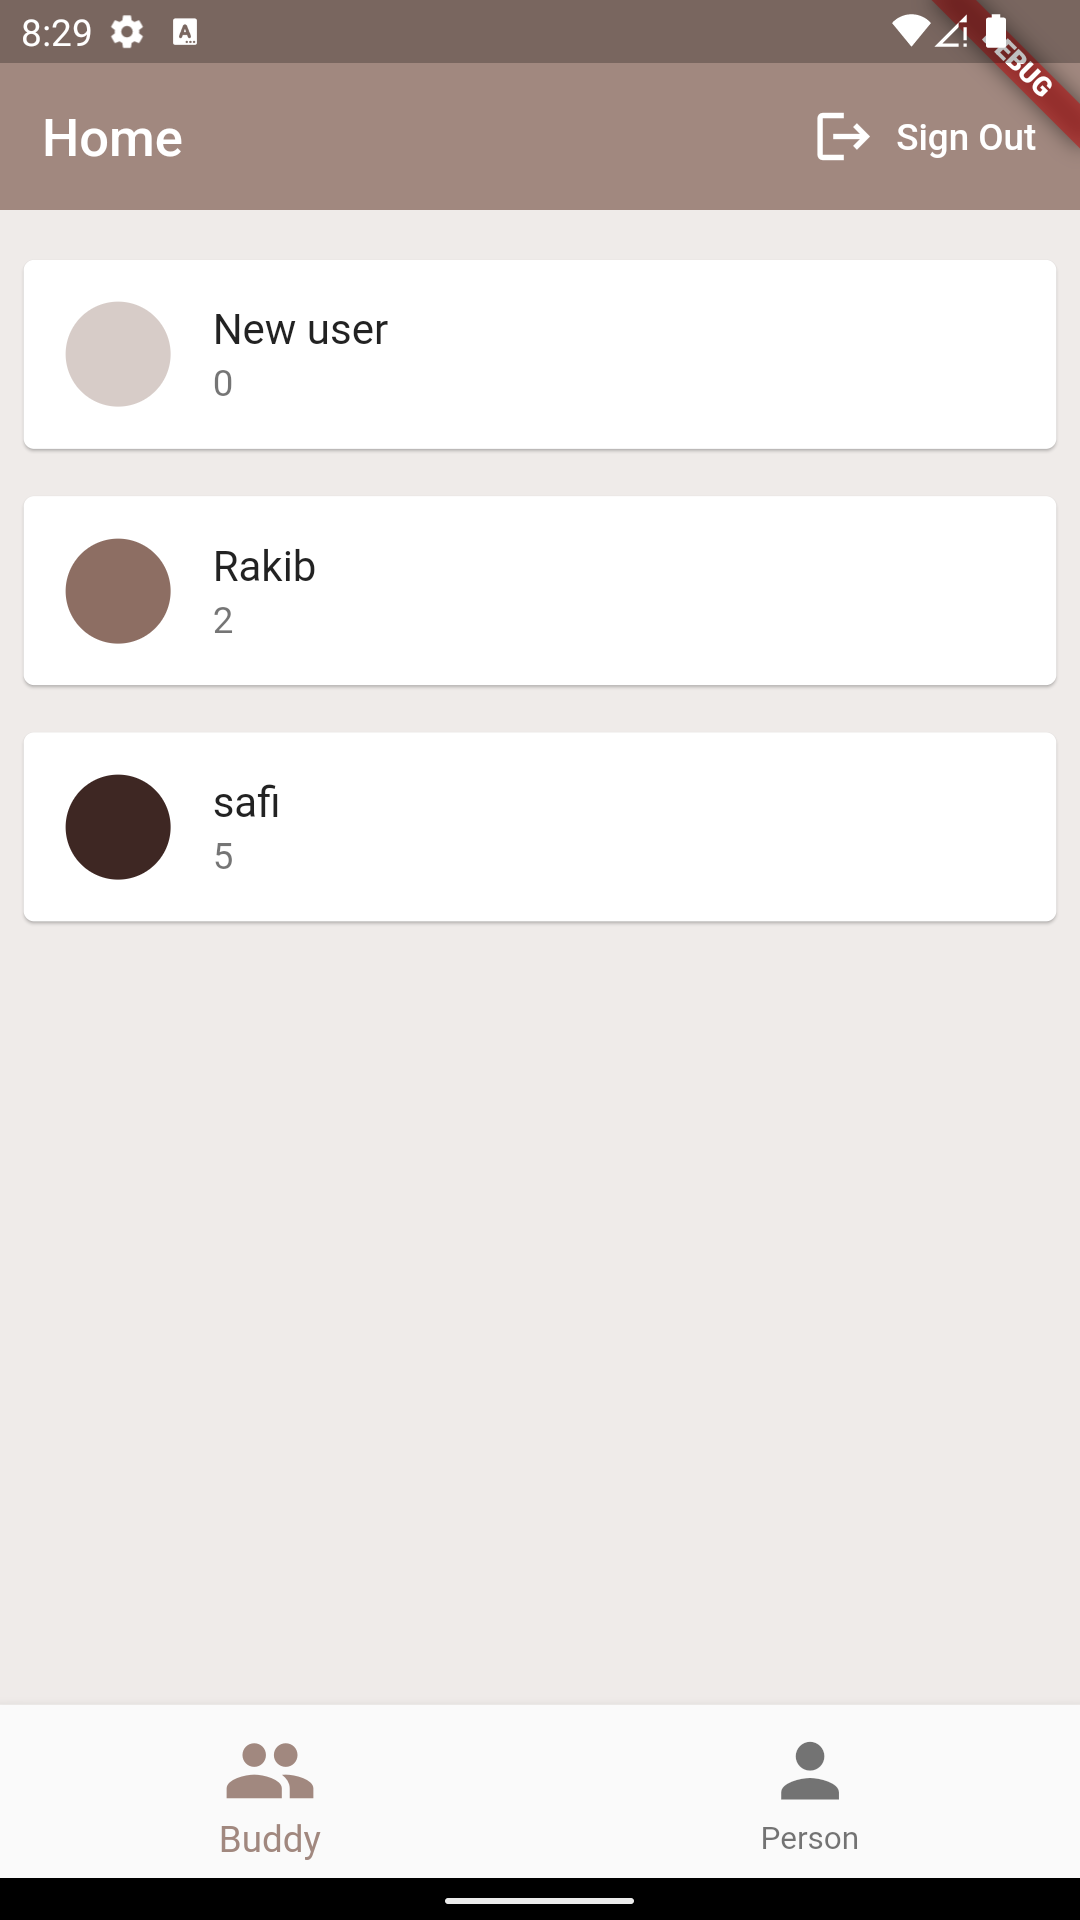
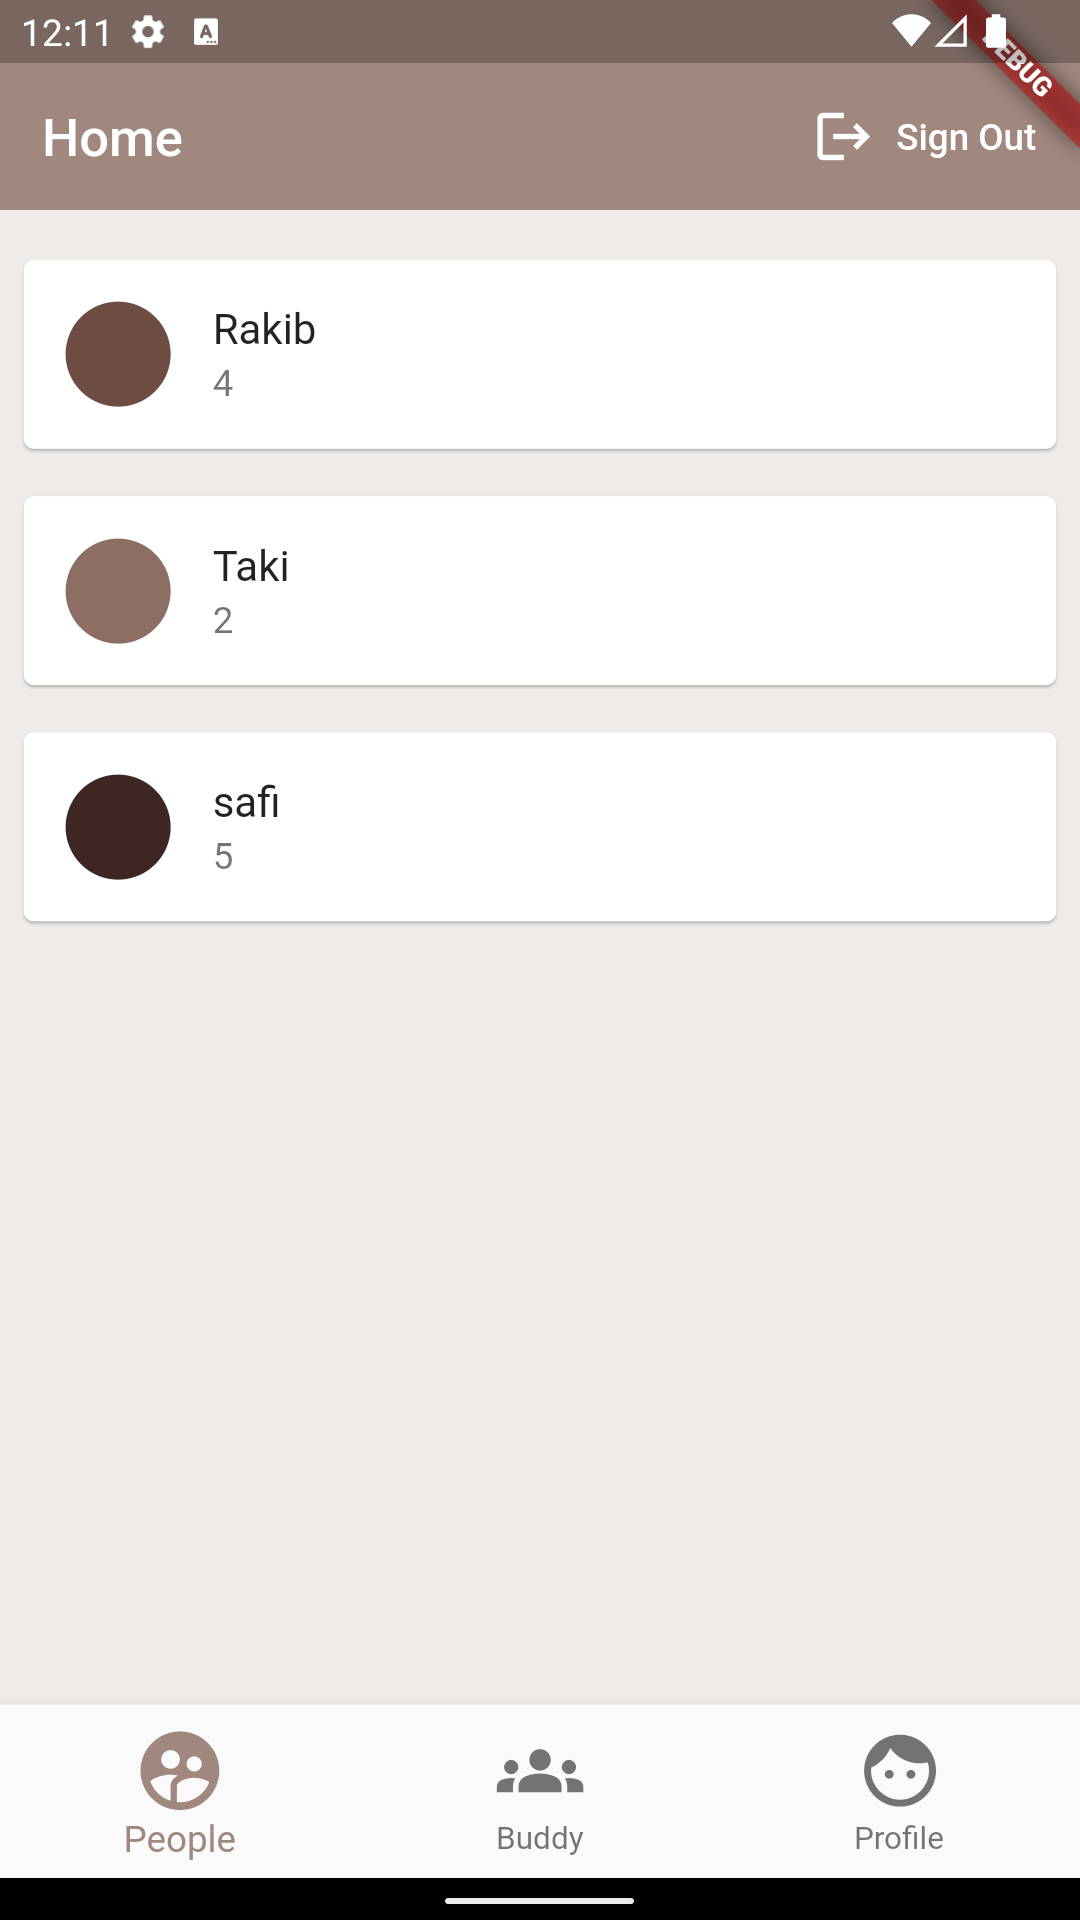
Buddy feature add 1

diff --git a/lib/screen/Home/Home.dart b/lib/screen/Home/Home.dart
@@ -1,6 +1,7 @@
 import 'package:coffee_buddy/controller/AuthController.dart';
 import 'package:coffee_buddy/controller/DatabaseController.dart';
 import 'package:coffee_buddy/model/AppUser.dart';
+import 'package:coffee_buddy/screen/Home/BuddyCardList.dart';
 import 'package:coffee_buddy/screen/Home/CurrentUser.dart';
 import 'package:flutter/material.dart';
 import 'package:provider/provider.dart';
@@ -15,7 +16,7 @@ class Home extends StatefulWidget {
 class _HomeState extends State<Home> {
   final AuthController _auth = AuthController();
   final DatabaseController _databaseController = DatabaseController();
-  List<Widget> states = [UserCardList(), CurrentUser()];
+  List<Widget> states = [UserCardList(), BuddyCardList() ,CurrentUser()];
   int _state = 0;
 
   @override
@@ -51,12 +52,16 @@ class _HomeState extends State<Home> {
         bottomNavigationBar: BottomNavigationBar(
           items: const [
             BottomNavigationBarItem(
-              icon: Icon(Icons.group),
+              icon: Icon(Icons.supervised_user_circle),
+              label: "People",
+            ),
+            BottomNavigationBarItem(
+              icon: Icon(Icons.groups),
               label: "Buddy",
             ),
             BottomNavigationBarItem(
-              icon: Icon(Icons.person),
-              label: "Person",
+              icon: Icon(Icons.face),
+              label: "Profile",
             ),
           ],
           onTap: (index) {

diff --git a/lib/screen/Home/BuddyCardList.dart b/lib/screen/Home/BuddyCardList.dart
@@ -1,0 +1,17 @@
+import 'package:flutter/material.dart';
+
+class BuddyCardList extends StatefulWidget {
+  const BuddyCardList({Key? key}) : super(key: key);
+
+  @override
+  State<BuddyCardList> createState() => _BuddyCardListState();
+}
+
+class _BuddyCardListState extends State<BuddyCardList> {
+  @override
+  Widget build(BuildContext context) {
+    return Container(
+      child: Text('Buddy'),
+    );
+  }
+}
